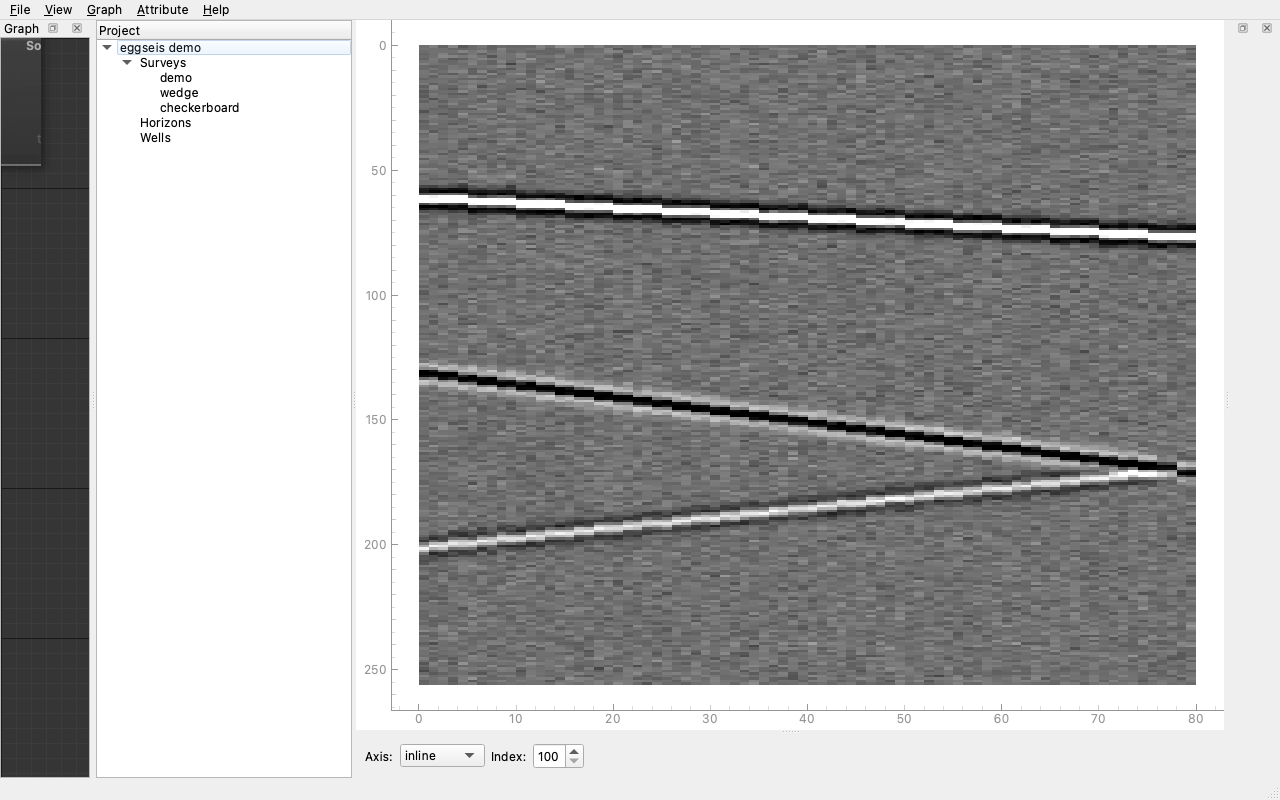
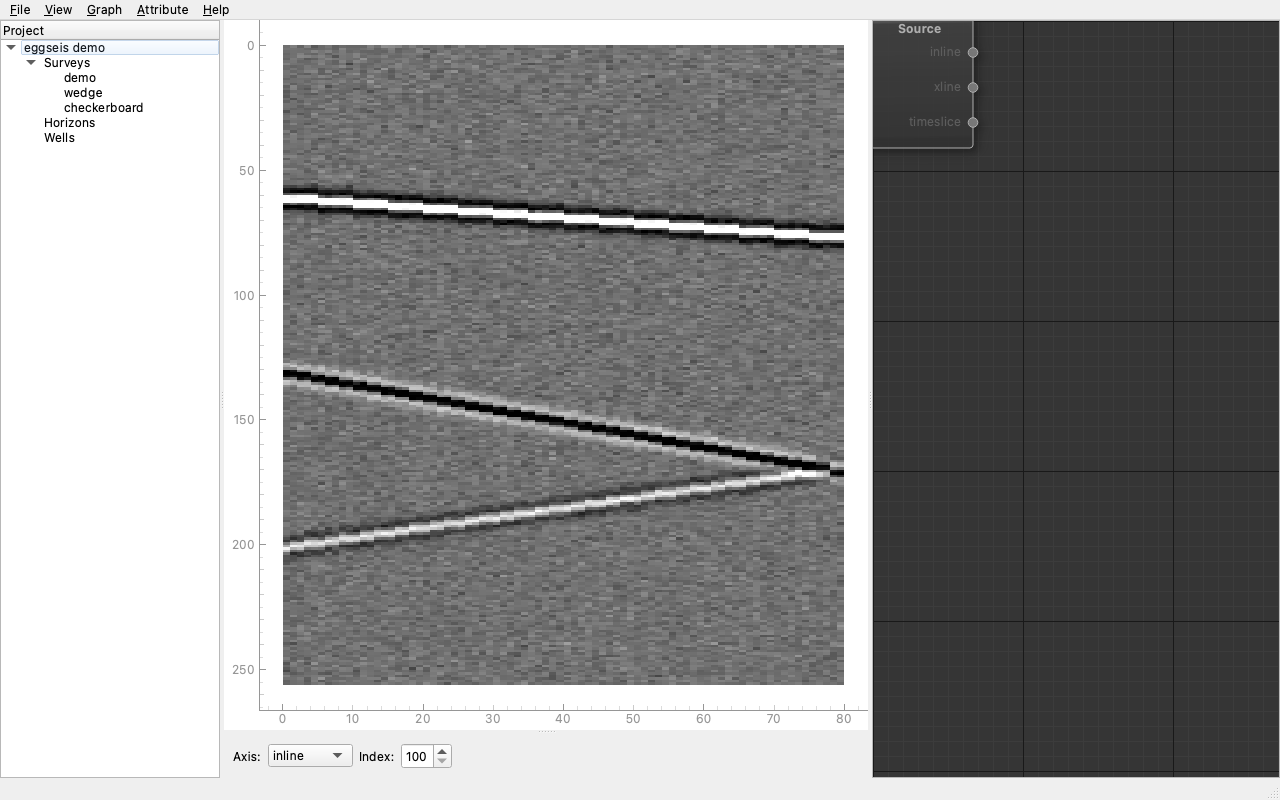
M6 polish: 3-pane layout + double-click params popup
Layout rework per user feedback:
  far-left tree | center viewer (section + slice nav) | right canvas
The whole thing is one horizontal QSplitter as the central widget.
Default sizes 220 / 600 / 380; user can drag to taste.

Param-editing UX:
  - GraphParamDock removed from the dock area.
  - Double-click a graph node -> NodeParamsPopup (modeless QDialog
    titled "Parameters — {plugin name}"). Multiple popups can be open
    at once; popup state is keyed on node_id so re-double-clicking
    raises the existing window instead of stacking duplicates.
  - Right-click context menu still has Tap / Enable / Disable / Remove.
  - Legacy Attribute-menu ParamDock kept for back-compat (hidden).

Canvas no longer hooks node_double_clicked itself; MainWindow owns
that gesture for the params popup. Tap-on-output now lives only on
the right-click context menu.

NodeParamsPopup wraps the M5 ParamDock in a QDialog + paramsChanged
signal. survey switch closes any leftover popups so they don't
linger pointing at deleted nodes.

Tests: existing canvas double-click test inverted (asserts tap is NOT
mutated). Screenshot regenerated. CI: 276/276.

diff --git a/src/eggseis/app.py b/src/eggseis/app.py
@@ -24,7 +24,7 @@ from eggseis.data import SeismicVolume
 from eggseis.graph.canvas import GraphCanvas
 from eggseis.graph.executor import GraphExecutor
 from eggseis.graph.model import SOURCE_ID, Graph
-from eggseis.graph.param_dock import GraphParamDock
+from eggseis.graph.params_popup import NodeParamsPopup
 from eggseis.plugin import PluginSpec
 from eggseis.plugin_loader import discover_all, load_errors
 from eggseis.plugin_template import create_template, open_in_editor
@@ -46,28 +46,36 @@ class MainWindow(QMainWindow):
         self.tree = ProjectTreeWidget()
         self.section_viewer = SectionViewer()
         self.slice_nav = SliceNavigator()
-        self.param_dock = ParamDock()
+        self.param_dock = ParamDock()  # Legacy single-attribute param editor.
 
-        right = QSplitter(Qt.Vertical)
-        right.addWidget(self.section_viewer)
-        right.addWidget(self.slice_nav)
-        right.setStretchFactor(0, 1)
+        # Three-pane layout:
+        #   tree (far left) | section viewer + slice nav (center) | graph canvas (right)
+        viewer_pane = QSplitter(Qt.Vertical)
+        viewer_pane.addWidget(self.section_viewer)
+        viewer_pane.addWidget(self.slice_nav)
+        viewer_pane.setStretchFactor(0, 1)
+
+        self._canvas = GraphCanvas()
 
         splitter = QSplitter(Qt.Horizontal)
         splitter.addWidget(self.tree)
-        splitter.addWidget(right)
+        splitter.addWidget(viewer_pane)
+        splitter.addWidget(self._canvas)
+        splitter.setStretchFactor(0, 0)
         splitter.setStretchFactor(1, 1)
+        splitter.setStretchFactor(2, 1)
+        splitter.setSizes([220, 600, 380])
         self.setCentralWidget(splitter)
 
-        self._param_dock_widget = QDockWidget("Parameters", self)
+        # Legacy Attribute-menu param dock kept around for the menu-driven
+        # path but hidden by default. Floats if the user enables it.
+        self._param_dock_widget = QDockWidget("Parameters (legacy)", self)
         self._param_dock_widget.setWidget(self.param_dock)
         self._param_dock_widget.setAllowedAreas(
             Qt.LeftDockWidgetArea | Qt.RightDockWidgetArea | Qt.BottomDockWidgetArea
         )
         self.addDockWidget(Qt.RightDockWidgetArea, self._param_dock_widget)
         self.param_dock.setMinimumWidth(260)
-        # Legacy Attribute-menu param editor — hidden by default since M6's
-        # GraphParamDock supersedes it for canvas-driven workflows.
         self._param_dock_widget.setVisible(False)
 
         self._project: Project | None = None
@@ -87,26 +95,14 @@ class MainWindow(QMainWindow):
 
         self._graphs: dict[str, Graph] = {}
         self._active_survey_id: str | None = None
-        self._canvas = GraphCanvas()
-        self._canvas_dock = QDockWidget("Graph", self)
-        self._canvas_dock.setWidget(self._canvas)
-        self._canvas_dock.setAllowedAreas(Qt.LeftDockWidgetArea | Qt.RightDockWidgetArea)
-        self.addDockWidget(Qt.LeftDockWidgetArea, self._canvas_dock)
         self._canvas.edgeChanged.connect(self._request_tap)
         self._canvas.tapPortChanged.connect(lambda _id, _port: self._request_tap())
 
-        self._graph_param_dock = GraphParamDock(self)
-        self.addDockWidget(Qt.RightDockWidgetArea, self._graph_param_dock)
-        self._graph_param_dock.paramsChanged.connect(self._on_node_params_changed)
-        self._canvas.selectionChanged.connect(
-            lambda nid: self._graph_param_dock.show_node(nid or None)
-        )
-        # Keep the param dock in sync as the canvas grows / shrinks.
-        self._canvas.nodeAdded.connect(
-            lambda nid: (self._graph_param_dock.refresh(),
-                         self._graph_param_dock.show_node(nid))
-        )
-        self._canvas.nodeRemoved.connect(lambda _nid: self._graph_param_dock.refresh())
+        # Double-click → modeless params popup. Replaces the previous tap-on-
+        # double-click behaviour; tap stays on the right-click context menu.
+        self._params_popups: dict[str, NodeParamsPopup] = {}
+        self._canvas._scene.node_double_clicked.connect(self._on_node_double_clicked_open_params)
+        self._canvas.nodeRemoved.connect(self._close_popup_for_node)
         self._canvas._scene.node_context_menu.connect(self._on_node_context_menu)
 
         self._build_menus()
@@ -287,7 +283,10 @@ class MainWindow(QMainWindow):
         self.section_viewer.set_volume(volume)
         self.slice_nav.set_geometry(volume.geometry)
         self._canvas.bind(self._graphs[survey_id])
-        self._graph_param_dock.bind(self._graphs[survey_id])
+        # Close any params popups left over from the previous survey.
+        for popup in list(self._params_popups.values()):
+            popup.close()
+        self._params_popups.clear()
         # Only drive the executor when the graph has nodes; an empty graph
         # taps Source, which the section viewer already paints raw.
         if self._graphs[survey_id].nodes:
@@ -372,6 +371,30 @@ class MainWindow(QMainWindow):
         node_id = self._canvas.add_plugin(spec)
         self._canvas.set_tap(node_id, "out")
         return node_id
+
+    def _on_node_double_clicked_open_params(self, scene_node) -> None:
+        node_id = self._canvas._scene_node_to_graph_id(scene_node)
+        if node_id is None or node_id == SOURCE_ID:
+            return
+        graph = self._graphs[self._active_survey_id]
+        node = graph.nodes[node_id]
+
+        existing = self._params_popups.get(node_id)
+        if existing is not None and not existing.isHidden():
+            existing.raise_()
+            existing.activateWindow()
+            return
+
+        popup = NodeParamsPopup(node, parent=self)
+        popup.paramsChanged.connect(self._on_node_params_changed)
+        popup.finished.connect(lambda _result, nid=node_id: self._params_popups.pop(nid, None))
+        self._params_popups[node_id] = popup
+        popup.show()
+
+    def _close_popup_for_node(self, node_id: str) -> None:
+        popup = self._params_popups.pop(node_id, None)
+        if popup is not None:
+            popup.close()
 
     def _on_node_context_menu(self, scene_node, _scene_pos, screen_pos) -> None:
         node_id = self._canvas._scene_node_to_graph_id(scene_node)

diff --git a/src/eggseis/graph/params_popup.py b/src/eggseis/graph/params_popup.py
@@ -1,0 +1,38 @@
+"""Modeless params popup — opens on canvas node double-click.
+
+Wraps the M5-style ParamDock in a QDialog so users can edit a single
+node's parameters without a permanent dock taking screen real estate.
+"""
+
+from __future__ import annotations
+
+from PySide6.QtCore import Qt, Signal
+from PySide6.QtWidgets import QDialog, QVBoxLayout, QWidget
+
+from eggseis.graph.model import Node
+from eggseis.widgets.param_dock import ParamDock
+
+
+class NodeParamsPopup(QDialog):
+    paramsChanged = Signal(str, object)  # node_id, BaseModel
+
+    def __init__(self, node: Node, parent: QWidget | None = None) -> None:
+        super().__init__(parent)
+        self._node_id = node.node_id
+        self.setWindowTitle(f"Parameters — {node.spec.name}")
+        self.setWindowFlag(Qt.Tool, True)  # Floating utility window
+        self.setModal(False)
+        self.setMinimumWidth(280)
+
+        layout = QVBoxLayout(self)
+        layout.setContentsMargins(6, 6, 6, 6)
+        self._inner = ParamDock()
+        self._inner.set_plugin(node.spec, params=node.params)
+        self._inner.paramsChanged.connect(
+            lambda params: self.paramsChanged.emit(self._node_id, params)
+        )
+        layout.addWidget(self._inner)
+
+    @property
+    def node_id(self) -> str:
+        return self._node_id

diff --git a/tests/test_graph_canvas.py b/tests/test_graph_canvas.py
@@ -206,18 +206,16 @@ def test_selection_changed_emits_graph_node_id(canvas, linear_attr, qtbot):
     assert any(r == node_id for r in received)
 
 
-def test_double_click_node_taps_output(canvas, linear_attr, qtbot):
+def test_canvas_does_not_tap_on_double_click(canvas, linear_attr, qtbot):
+    """Double-click is consumed by MainWindow for params popup, not by canvas."""
     g = Graph()
     canvas.bind(g)
     node_id = canvas.add_plugin(linear_attr)
     canvas.connect_edge(Edge(SOURCE_ID, "inline", node_id, "traces"))
-
-    received = []
-    canvas.tapPortChanged.connect(lambda nid, port: received.append((nid, port)))
-    scene_node = canvas.scene_node_for(node_id)
-    canvas._scene.node_double_clicked.emit(scene_node)
-    assert (node_id, "out") in received
-    assert g.tap_port == (node_id, "out")
+    initial_tap = g.tap_port
+    canvas._scene.node_double_clicked.emit(canvas.scene_node_for(node_id))
+    # Tap port unchanged — canvas no longer hooks node_double_clicked.
+    assert g.tap_port == initial_tap
 
 
 def test_set_node_enabled_toggles_graph_and_opacity(canvas, linear_attr):

diff --git a/src/eggseis/graph/canvas.py b/src/eggseis/graph/canvas.py
@@ -135,7 +135,9 @@ class GraphCanvas(QWidget):
         self._scene.connection_created.connect(self._on_lib_connection_created)
         self._scene.connection_deleted.connect(self._on_lib_connection_deleted)
         self._scene.selectionChanged.connect(self._on_scene_selection_changed)
-        self._scene.node_double_clicked.connect(self._on_node_double_clicked)
+        # Note: double-click is intentionally NOT consumed here. MainWindow
+        # routes node_double_clicked to a parameters popup; tap-on-output
+        # lives on the right-click context menu instead.
 
     # --- public API ----------------------------------------------------
 
@@ -426,9 +428,3 @@ class GraphCanvas(QWidget):
                 return
         self.selectionChanged.emit("")
 
-    def _on_node_double_clicked(self, scene_node) -> None:
-        """Double-click an output port -> tap that port."""
-        graph_id = self._scene_node_to_graph_id(scene_node)
-        if graph_id is None or graph_id == SOURCE_ID:
-            return
-        self.set_tap(graph_id, "out")
